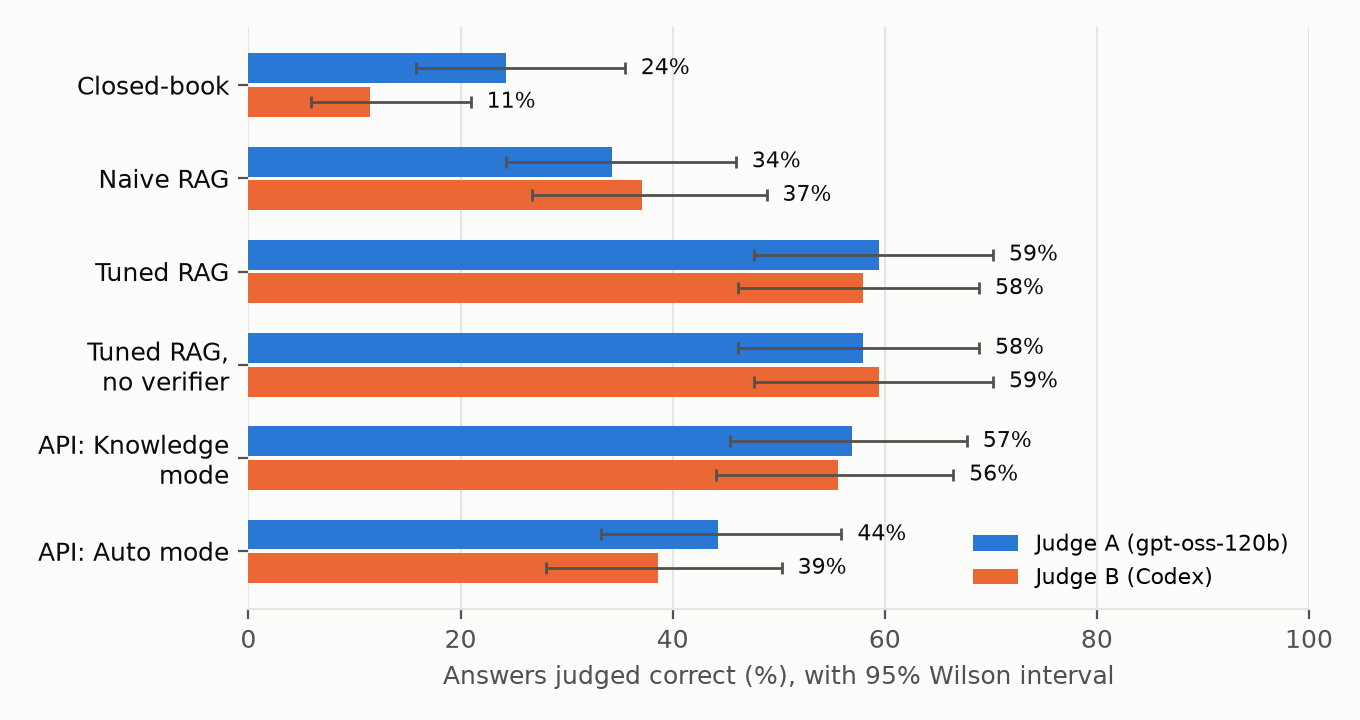
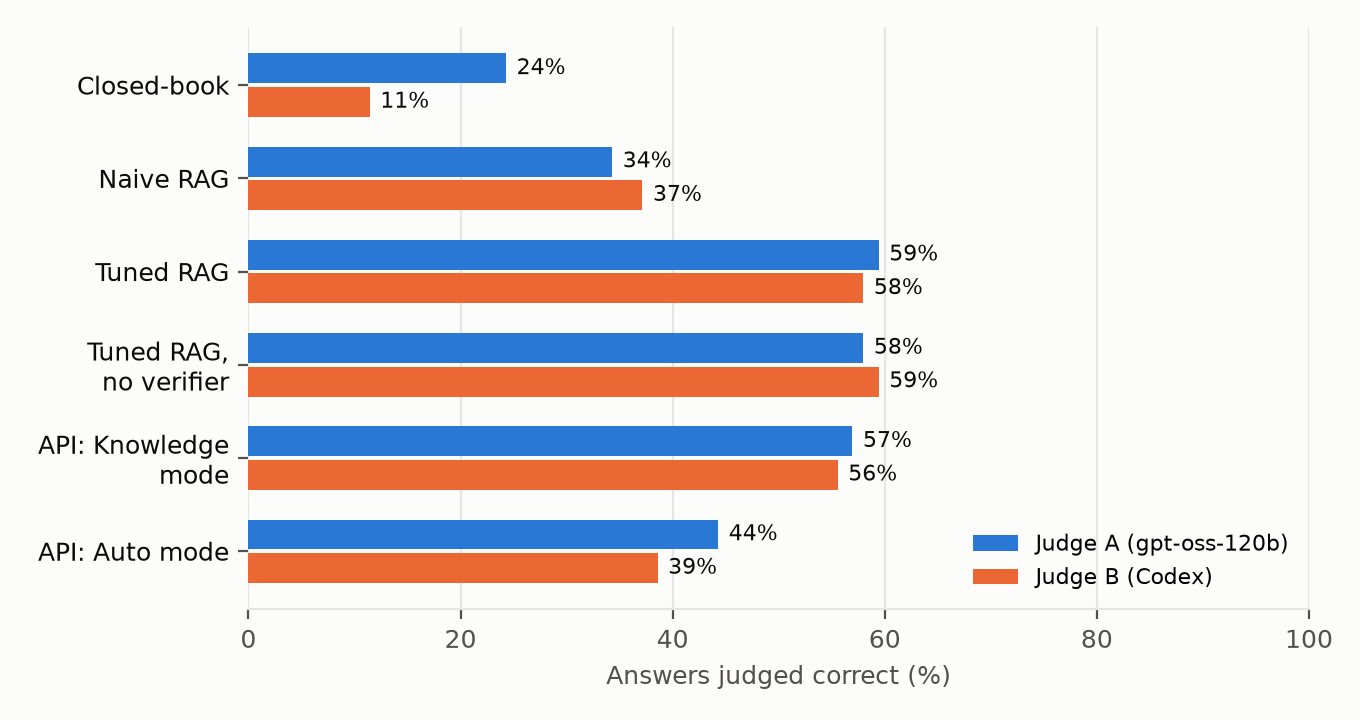
docs: figure 6.2 without error bars, value labels only

diff --git a/scripts/agents/report_figures.py b/scripts/agents/report_figures.py
@@ -6,7 +6,6 @@ Needs matplotlib, which is not a project dependency: run it with any Python that
   /tmp/figenv/bin/python scripts/agents/report_figures.py
 """
 import json
-import math
 from pathlib import Path
 
 import matplotlib
@@ -34,13 +33,6 @@ def rows(arm, judge):
     return [r for r in json.loads((RUNS / name).read_text())["rows"] if r.get("judge")]
 
 
-def wilson(k, n, z=1.96):
-    p = k / n
-    centre = (p + z * z / (2 * n)) / (1 + z * z / n)
-    half = z * math.sqrt(p * (1 - p) / n + z * z / (4 * n * n)) / (1 + z * z / n)
-    return centre - half, centre + half
-
-
 def recessive(ax, axis="x"):
     ax.grid(axis=axis, color=GRID, linewidth=0.8)
     ax.set_axisbelow(True)
@@ -55,14 +47,11 @@ def accuracy_figure():
         for yi, (arm, _) in zip(y, ARMS):
             data = rows(arm, judge)
             k, n = sum(r["judge"]["correctness"] == "correct" for r in data), len(data)
-            lo, hi = wilson(k, n)
             ax.barh(yi + offset, k / n * 100, height=0.32, color=colour, label=label if arm == "B0" else None)
-            ax.errorbar(k / n * 100, yi + offset, xerr=[[(k / n - lo) * 100], [(hi - k / n) * 100]],
-                        fmt="none", ecolor=MUTED, elinewidth=1, capsize=2)
-            ax.text(hi * 100 + 1.5, yi + offset, f"{k / n:.0%}", va="center", color=INK, fontsize=8)
+            ax.text(k / n * 100 + 1, yi + offset, f"{k / n:.0%}", va="center", color=INK, fontsize=8)
     ax.set_yticks(y, [name for _, name in ARMS], color=INK)
     ax.set_xlim(0, 100)
-    ax.set_xlabel("Answers judged correct (%), with 95% Wilson interval")
+    ax.set_xlabel("Answers judged correct (%)")
     recessive(ax)
     ax.legend(loc="lower right", frameon=False, fontsize=8)
     fig.tight_layout()

diff --git a/docs/report/huy-gdoc-paste-20261105.en.md b/docs/report/huy-gdoc-paste-20261105.en.md
@@ -302,7 +302,7 @@ How to read Table 6.3:
 
 [Insert Figure 6.2: `docs/report/figures/fig6-2-accuracy-by-configuration.png`]
 
-**Figure 6.2.** Share of answers judged correct by each configuration under both judges, with 95% Wilson intervals.
+**Figure 6.2.** Share of answers judged correct by each configuration under both judges. Confidence intervals for the differences between configurations are given in Table 6.4.
 
 Retrieval quality differed sharply between the naive and the tuned configuration. Tuned RAG reached a Recall@5 of 0.72, Full evidence@5 of 0.61 and MRR of 0.73, against 0.32, 0.28 and 0.26 for dense-only retrieval.
 
